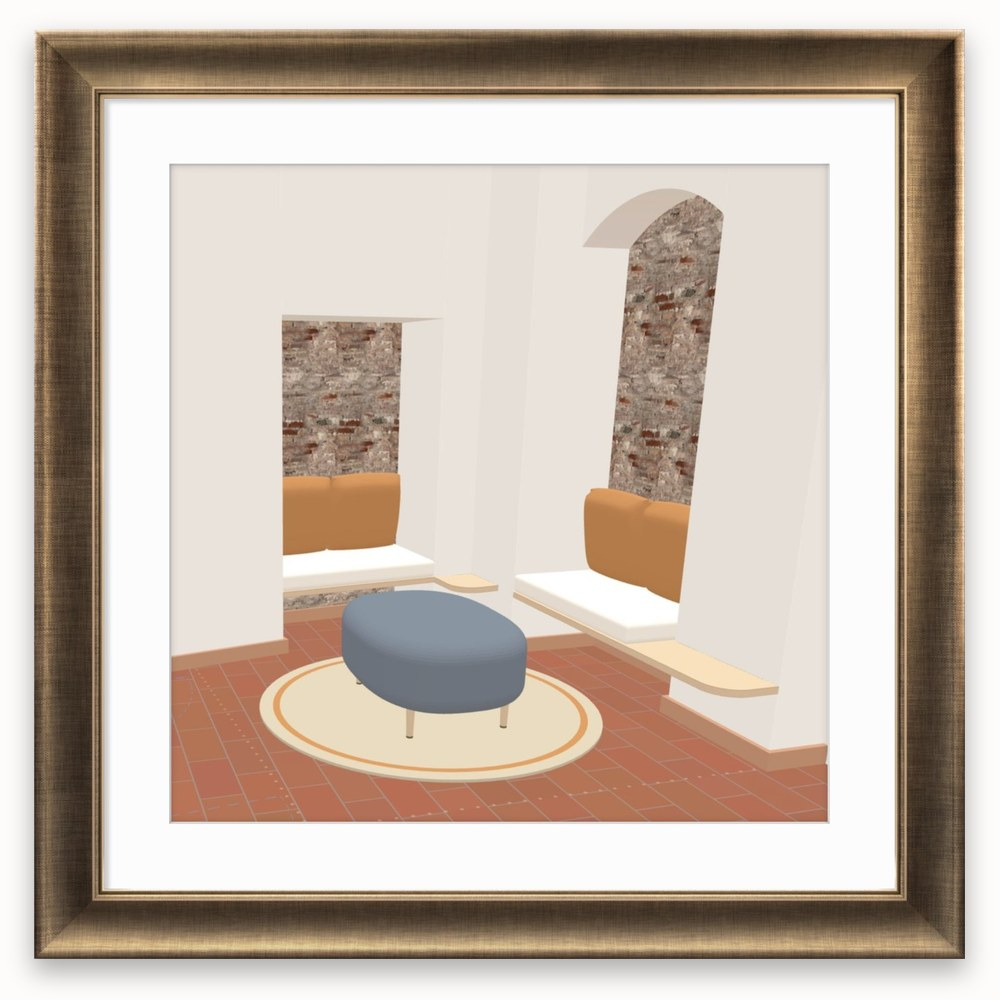
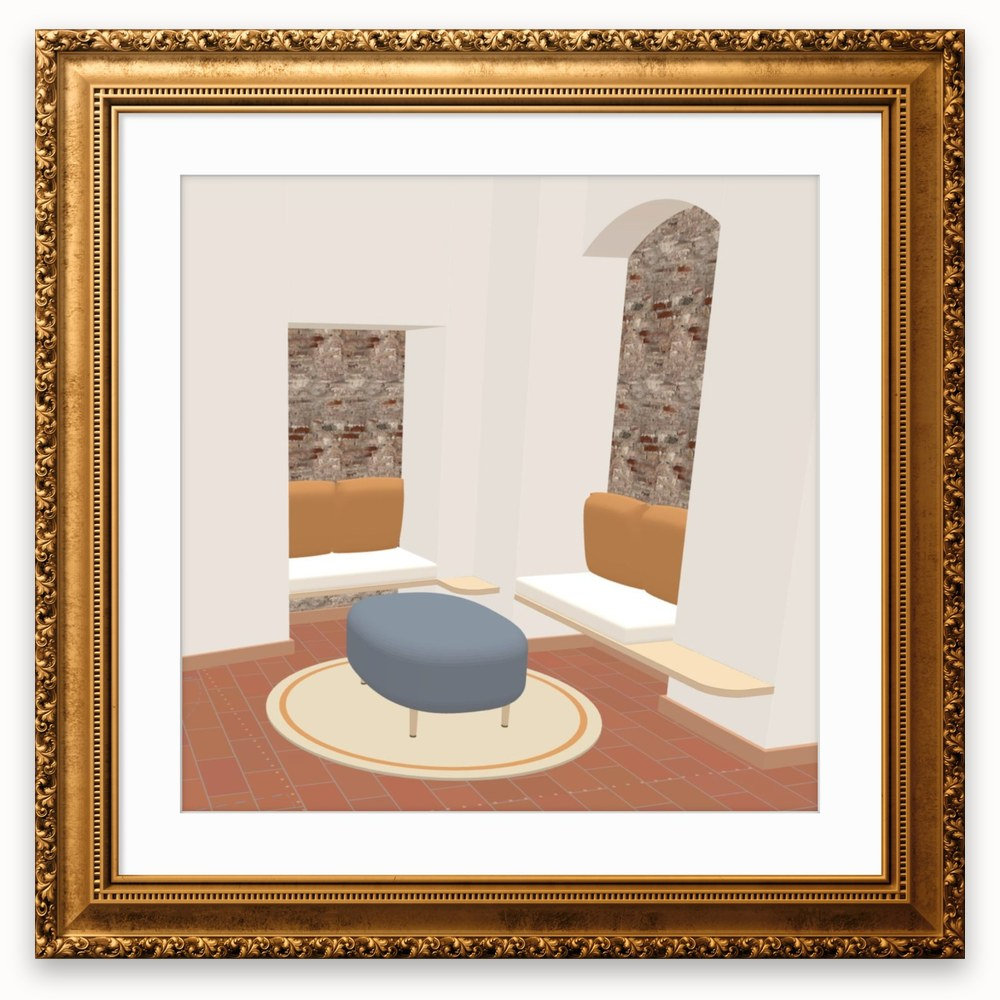
new frame for tarifa

diff --git a/index.html b/index.html
@@ -146,7 +146,7 @@ footer{margin-top:clamp(3.5rem,7vw,5.5rem);padding:1.5rem 0 3.5rem;border-top:1p
 
       <a class="tile" href="/tarifa-lounge/">
         <div class="media media--float">
-          <img src="/img/tarifa-framed.jpg" width="1000" height="1000" loading="lazy" alt="The Tarifa Lounge 3D model in a bronze frame: two brick-backed alcoves with cushioned benches, a gray ottoman on a round rug, and a terracotta floor.">
+          <img src="/img/tarifa-framed.jpg" width="1000" height="1000" loading="lazy" alt="The Tarifa Lounge 3D model in a gilt frame: two brick-backed alcoves with cushioned benches, a gray ottoman on a round rug, and a terracotta floor.">
         </div>
         <p class="eyebrow">Tarifa, Spain · 3D</p>
         <h2>Tarifa Lounge</h2>
